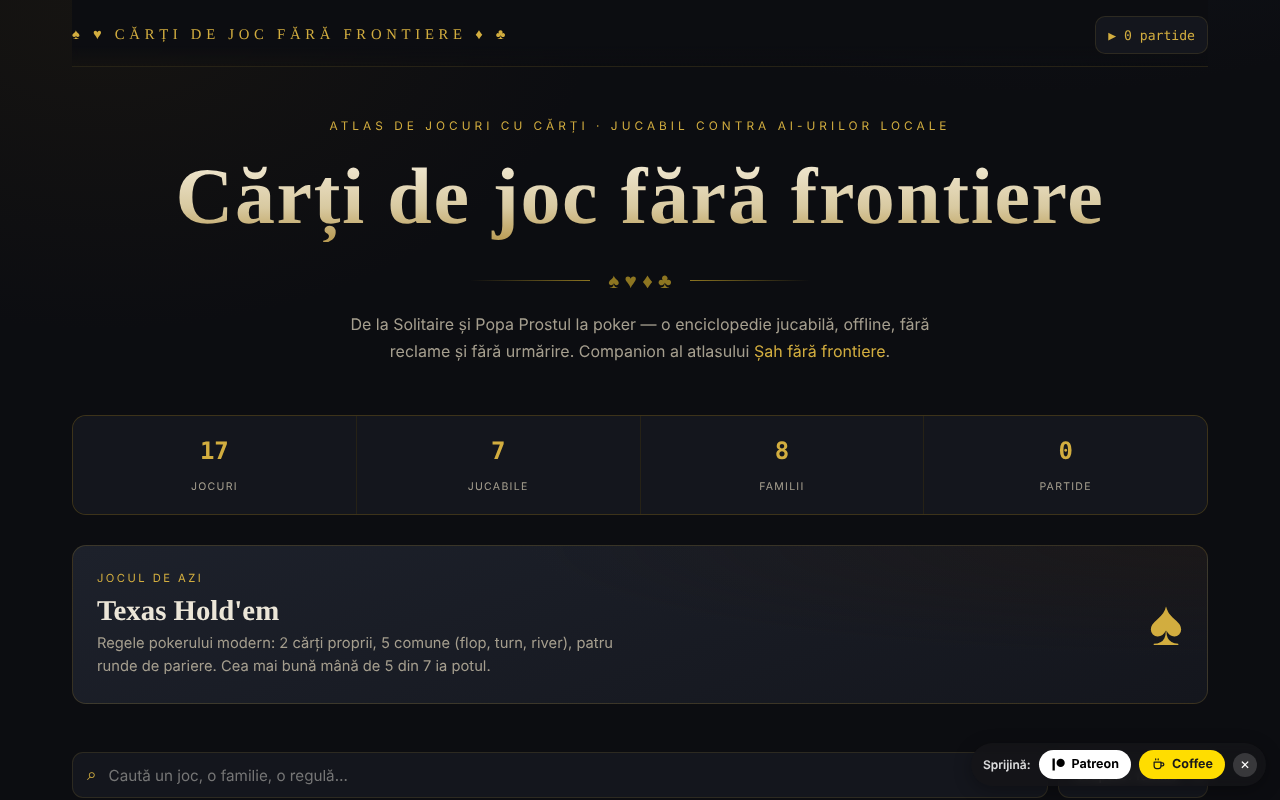
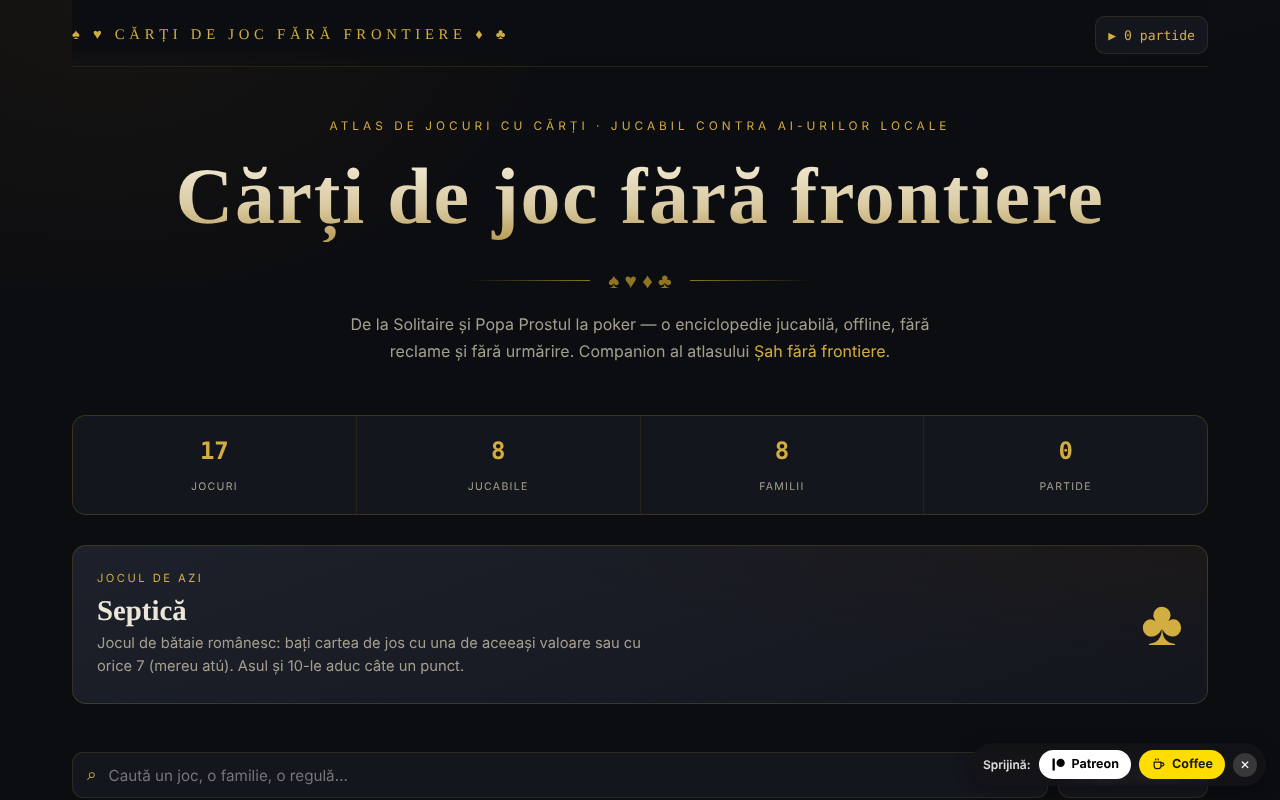
Runda 6 (11 octombrie 2026): reparații și îmbunătățiri
Claude-Session: https://claude.ai/code/session_01D2sCEb3hy3nutYexhUfQFs

Changed region(s): [[0.0625, 0.75, 0.5, 0.8438], [0.875, 0.75, 0.9375, 0.8125]]

diff --git a/index.html b/index.html
@@ -28,7 +28,7 @@
 /* Accesibilitate: inel de focus vizibil pentru navigare la tastatură. */
 :focus-visible{outline:2px solid #4a90d9;outline-offset:2px;border-radius:2px}
 </style>
-  <meta http-equiv="Content-Security-Policy" content="default-src 'self'; img-src 'self' data: blob:; style-src 'self' 'unsafe-inline'; font-src 'self' data:; media-src 'self' blob: data:; object-src 'none'; base-uri 'self'; form-action 'self'; worker-src 'self' blob:; script-src 'self' 'unsafe-inline' blob:; connect-src 'self'">
+  <meta http-equiv="Content-Security-Policy" content="default-src 'self'; img-src 'self' data: blob:; style-src 'self' 'unsafe-inline'; font-src 'self' data:; media-src 'self' blob: data:; object-src 'none'; base-uri 'self'; form-action 'self'; worker-src 'self' blob:; script-src 'self' 'sha256-MZuvhtaqKJxT4DdHfCyAoB/kCeG4C0ZwZqGVIxwbhOI=' 'sha256-xBlWaEQo3jR7IHPBC+PR8qDLF4pOTOZzAIT18cqFl5A='; connect-src 'self'">
 <meta name="viewport" content="width=device-width,initial-scale=1">
 <title>Cărți de joc fără frontiere</title>
 <style>
@@ -165,7 +165,7 @@ position:sticky;top:0;z-index:40;background:linear-gradient(var(--bg) 70%,transp
   </div>
   <div id="catalog"></div>
   <div class="foot"><div class="big">Cărți de joc fără frontiere</div><div class="suits">♠ ♥ ♦ ♣</div>
-    <p>Fișier unic, 100% offline · 0 resurse externe · vanilla JS, fără telemetrie.<br>Jucabile: Solitaire (Klondike), Război, Popa Prostul, Macao, Septică, Blackjack și Texas Hold'em. Restul sunt documentate.<br>Jocuri de cărți simulate, fără bani reali și fără pariuri; Blackjack, Texas Hold'em și jocurile din familia „Cazinou &amp; pariuri" sunt prezentate doar educațional — jocurile de noroc pe bani pot crea dependență și sunt destinate adulților.<br>Realizat de Alexandru-Ionuț Chiuță (Alexio) · Centrul StrING · CC0 1.0.</p></div>
+    <p>Fișier unic, 100% offline · 0 resurse externe · vanilla JS, fără telemetrie.<br>Jucabile: Solitaire (Klondike), Război, Popa Prostul, Macao, Crazy Eights, Septică, Blackjack și Texas Hold'em. Restul sunt documentate.<br>Jocuri de cărți simulate, fără bani reali și fără pariuri; Blackjack, Texas Hold'em și jocurile din familia „Cazinou &amp; pariuri" sunt prezentate doar educațional — jocurile de noroc pe bani pot crea dependență și sunt destinate adulților.<br>Realizat de Alexandru-Ionuț Chiuță (Alexio) · Centrul StrING · CC0 1.0.</p></div>
 </main>
 <div class="modal-bg" id="modalbg" role="dialog" aria-modal="true" aria-label="Fișa jocului"><div class="modal" id="modal"></div></div>
 <div class="play-bg" id="playbg" role="dialog" aria-modal="true" aria-label="Masa de joc"></div>
@@ -201,7 +201,7 @@ const GAMES=[
  desc:"Cel mai iubit joc de cărți din România, văr cu „Crazy Eights”: potrivești culoarea sau valoarea; 7 obligă la tras, 8 sare rândul, Asul schimbă culoarea.",
  rules:["Pui o carte de aceeași culoare sau valoare.","7 = adversarul trage 2 (se „leagă”).","8 = adversarul stă o tură.","Asul e jolly și cere culoarea dorită."],
  fact:"Numele vine, ca și „macao”-ul de cazino, de la portul Macao — simbol interbelic de noroc."},
-{id:"crazy8",t:"Crazy Eights (Opt nebun)",suit:"♠",fam:"aruncare",pl:"2–7",diff:1,era:"începutul sec. XX",reg:"SUA",tags:["scapă de cărți","8 = jolly"],
+{id:"crazy8",t:"Crazy Eights (Opt nebun)",suit:"♠",fam:"aruncare",play:"crazy8",pl:"2–7",diff:1,era:"începutul sec. XX",reg:"SUA",tags:["scapă de cărți","8 = jolly"],
  desc:"Strămoșul lui Macao și al lui UNO: potrivești culoarea sau valoarea, iar orice 8 e „nebun” și schimbă culoarea cerută.",
  rules:["Pui o carte de aceeași culoare sau valoare.","Orice 8 se joacă oricând și schimbă culoarea.","Dacă nu poți, tragi din pachet.","Primul rămas fără cărți câștigă."],
  fact:"Mecanica „8 = wild” a inspirat direct cărțile speciale din UNO (1971)."},
@@ -311,6 +311,7 @@ function render(){buildChips();const cat=$('#catalog');cat.innerHTML='';let list
 const APPROX={war:'Războiul nu cere decizii: „AI-ul” doar întoarce cărți alături de tine. Grămada câștigată e reamestecată ca să evite buclele infinite.',
   popa:'AI-urile trag cărți la întâmplare (nu pot vedea ce ai în mână) — exact ca în jocul real.',
   macao:'Regulă de casă: dacă nu ai carte validă tragi una și treci rândul. Se folosesc efectele 7=+2, 8=stă, As=jolly.',
+  crazy8:'În aplicație se joacă 1 la 1 cu calculatorul, 7 cărți fiecare. Dacă nu ai carte validă tragi până găsești una; 8 este jolly și alegi culoarea. Câștigă cine rămâne primul fără cărți. Nu există efecte speciale în afară de 8.',
   septica:'La epuizarea pachetului, cărțile rămase în mâini nu se mai contorizează. AI-ul joacă prudent, la nivel de cafenea.',
   blackjack:'Dublare pe primele două cărți, split o singură dată (cărți de aceeași valoare; asul divizat primește o singură carte) și asigurare 2:1 când dealerul arată As. Dealerul stă pe orice 17. Blackjack-ul plătește 3:2.',
   holdem:'Heads-up (1 la 1), mize mici. AI-ul își estimează șansele prin simulare Monte Carlo și are nivel de cafenea, nu de profesionist.',
@@ -329,8 +330,8 @@ function dailyPick(){const p=GAMES.filter(g=>g.play),t=new Date(),seed=t.getFull
 function openPlay(title,suit){const pb=$('#playbg');
   pb.innerHTML='<div class="play-top"><div class="pt-title"><span class="s">'+suit+'</span> '+title+'</div><button class="icon-btn" id="closeplay" title="Închide">✕</button></div><div class="play-stage"><div class="table-inner" id="tableInner"></div></div>';
   $('#closeplay').onclick=closePlay;pb.classList.add('open');bumpPlayed();}
-function closePlay(){clearInterval(warIv);$('#playbg').classList.remove('open');$('#playbg').innerHTML='';warSt=popa=macao=septica=bj=he=sol=null;}
-function startGame(g){const m={war:startWar,popa:startPopa,macao:startMacao,septica:startSeptica,blackjack:startBlackjack,holdem:startHoldem,solitaire:startSolitaire};if(m[g.play]){openPlay(g.t,g.suit);m[g.play]();}}
+function closePlay(){clearInterval(warIv);$('#playbg').classList.remove('open');$('#playbg').innerHTML='';warSt=popa=macao=septica=bj=he=sol=cr8=null;}
+function startGame(g){const m={war:startWar,popa:startPopa,macao:startMacao,septica:startSeptica,blackjack:startBlackjack,holdem:startHoldem,solitaire:startSolitaire,crazy8:startCrazy8};if(m[g.play]){openPlay(g.t,g.suit);m[g.play]();}}
 function seat(name,count,turn,unit){return '<div class="seat-name'+(turn?' turn':'')+'"><span class="dot"></span>'+name+'</div>'+(count!=null?'<div class="chiptag">'+count+' '+(unit||'cărți')+'</div>':'');}
 /* ===== RĂZBOI ===== */
 let warSt=null,warIv=null;
@@ -410,6 +411,37 @@ function renderMacao(){const ti=TI(),m=macao;ti.innerHTML='';const top=m.discard
   else if(m.turn===0){const btns=[];if(m.penalty>0)btns.push({l:'Trage '+m.penalty+' cărți',f:()=>{macaoDraw(0,m.penalty);m.penalty=0;m.turn=1;m.msg='Ai tras penalizarea.';renderMacao();setTimeout(macaoAI,700);}});
     else if(!legal.length)btns.push({l:'Trage o carte',f:()=>{macaoDraw(0,1);m.turn=1;m.msg='Ai tras o carte.';renderMacao();setTimeout(macaoAI,700);}});
     if(btns.length)ti.appendChild(bar(btns));else if(legal.length){const n=el('div','note');n.textContent='Alege o carte validă (evidențiată) ca s-o joci.';ti.appendChild(n);}}}
+/* ===== CRAZY EIGHTS / OPT NEBUN (1 vs calculator) ===== */
+let cr8=null;
+function startCrazy8(){const d=shuffle(makeDeck());const hand=d.splice(0,7),ai=d.splice(0,7);let top=d.pop();while(top.r===8){d.unshift(top);top=d.pop();}
+  cr8={stock:d,discard:[top],hand,ai,suit:top.s,turn:0,over:false,win:null,pick:null,msg:'Rândul tău: pune o carte de aceeași culoare sau valoare (8 = jolly).'};renderCr8();}
+function cr8Top(){return cr8.discard[cr8.discard.length-1];}
+function cr8Draw(who){if(!cr8.stock.length){const t=cr8.discard.pop();cr8.stock=shuffle(cr8.discard);cr8.discard=[t];}if(!cr8.stock.length)return null;const c=cr8.stock.pop();(who===0?cr8.hand:cr8.ai).push(c);return c;}
+function cr8Legal(h){const t=cr8Top();return h.filter(c=>c.r===8||c.s===cr8.suit||c.r===t.r);}
+function cr8Play(who,card,suit){const arr=who===0?cr8.hand:cr8.ai;arr.splice(arr.indexOf(card),1);cr8.discard.push(card);cr8.suit=card.r===8?suit:card.s;
+  if(!arr.length){cr8.over=true;cr8.win=who;cr8.msg=who===0?'Ai scăpat de toate cărțile — ai câștigat! 🎉':'Calculatorul a scăpat de toate cărțile.';renderCr8();return;}
+  cr8.turn=1-who;cr8.msg=cr8.turn===0?'Rândul tău.':'Calculatorul joacă…';renderCr8();if(cr8.turn===1)setTimeout(cr8AI,800);}
+function cr8Pass(who){cr8.turn=1-who;cr8.msg=who===0?'Nu ai putut juca; pas. Calculatorul joacă…':'Calculatorul nu a putut juca și dă pas. Rândul tău.';renderCr8();if(cr8.turn===1)setTimeout(cr8AI,800);}
+function cr8AI(){if(!cr8||cr8.over||cr8.turn!==1)return;let drew=0,lg=cr8Legal(cr8.ai);
+  while(!lg.length){if(!cr8Draw(1)){cr8Pass(1);return;}drew++;lg=cr8Legal(cr8.ai);}
+  const non=lg.filter(c=>c.r!==8);const c=non.length?non.sort((a,b)=>b.r-a.r)[0]:lg[0];let su;
+  if(c.r===8){const ct=[0,0,0,0];cr8.ai.forEach(x=>{if(x!==c)ct[x.s]++;});su=ct.indexOf(Math.max(...ct));}
+  cr8Play(1,c,su);if(drew&&cr8&&!cr8.over)cr8.msg='Calculatorul a tras '+drew+(drew===1?' carte':' cărți')+'. Rândul tău.';if(cr8&&!cr8.over)renderCr8();}
+function cr8Human(idx){const c=cr8.hand[idx];if(c.r===8){cr8.pick=idx;renderCr8();return;}cr8Play(0,c);}
+function cr8Suit(su){const c=cr8.hand[cr8.pick];cr8.pick=null;cr8Play(0,c,su);}
+function renderCr8(){const ti=TI(),m=cr8;ti.innerHTML='';const top=cr8Top();
+  const s1=el('div','seat');s1.innerHTML=seat('Calculatorul',m.ai.length,m.turn===1&&!m.over);const ah=el('div','hand');m.ai.forEach(()=>ah.appendChild(cardEl(null,{back:1,w:56})));s1.appendChild(ah);ti.appendChild(s1);
+  const ca=el('div','center-area');const bd=el('div','board');bd.appendChild(cardEl(top,{w:108}));
+  const si=el('div');si.style.cssText='font-family:var(--fm);color:var(--brass)';si.innerHTML='Culoarea cerută: <b style="font-size:1.3rem;color:'+(isRed(m.suit)?'var(--red)':'#eee')+'">'+SUITS[m.suit]+'</b> · pachet: '+m.stock.length;bd.appendChild(si);
+  ca.appendChild(bd);const mg=el('div','msg '+(m.over&&m.win===1?'lose':(m.over?'win':'')));mg.textContent=m.msg;ca.appendChild(mg);ti.appendChild(ca);
+  const me=el('div','seat');me.innerHTML=seat('Tu',m.hand.length,m.turn===0&&!m.over);const mh=el('div','hand');
+  const legal=(!m.over&&m.turn===0&&m.pick==null)?cr8Legal(m.hand):[];
+  m.hand.forEach((c,idx)=>{mh.appendChild(cardEl(c,{w:78,onClick:legal.includes(c)?()=>cr8Human(idx):null,sel:m.pick===idx}));});me.appendChild(mh);ti.appendChild(me);
+  if(m.pick!=null){const n=el('div','note');n.textContent='Ai jucat un 8 — alege culoarea cerută:';ti.appendChild(n);const sp=el('div','suitpick');[0,1,2,3].forEach(s=>{const b=el('button',isRed(s)?'r':'');b.textContent=SUITS[s];b.setAttribute('aria-label','Culoarea '+SUITS[s]);b.onclick=()=>cr8Suit(s);sp.appendChild(b);});ti.appendChild(sp);}
+  else if(m.over)ti.appendChild(bar([{l:'↻ Joacă din nou',p:1,f:startCrazy8},{l:'Înapoi la atlas',f:closePlay}]));
+  else if(m.turn===0){if(!legal.length){const canDraw=m.stock.length>0||m.discard.length>1;
+      ti.appendChild(bar(canDraw?[{l:'Trage o carte',p:1,f:()=>{cr8Draw(0);cr8.msg='Ai tras o carte.';renderCr8();}}]:[{l:'Pas (pachet epuizat)',p:1,f:()=>cr8Pass(0)}]));}
+    else{const n=el('div','note');n.textContent='Alege o carte validă (evidențiată). 8 = jolly: alegi tu culoarea.';ti.appendChild(n);}}}
 /* ===== SEPTICĂ (heads-up, 32 cărți) ===== */
 let septica=null;
 function startSeptica(){const d=shuffle(makeDeck(7));const hand=d.splice(0,4),ai=d.splice(0,4);
